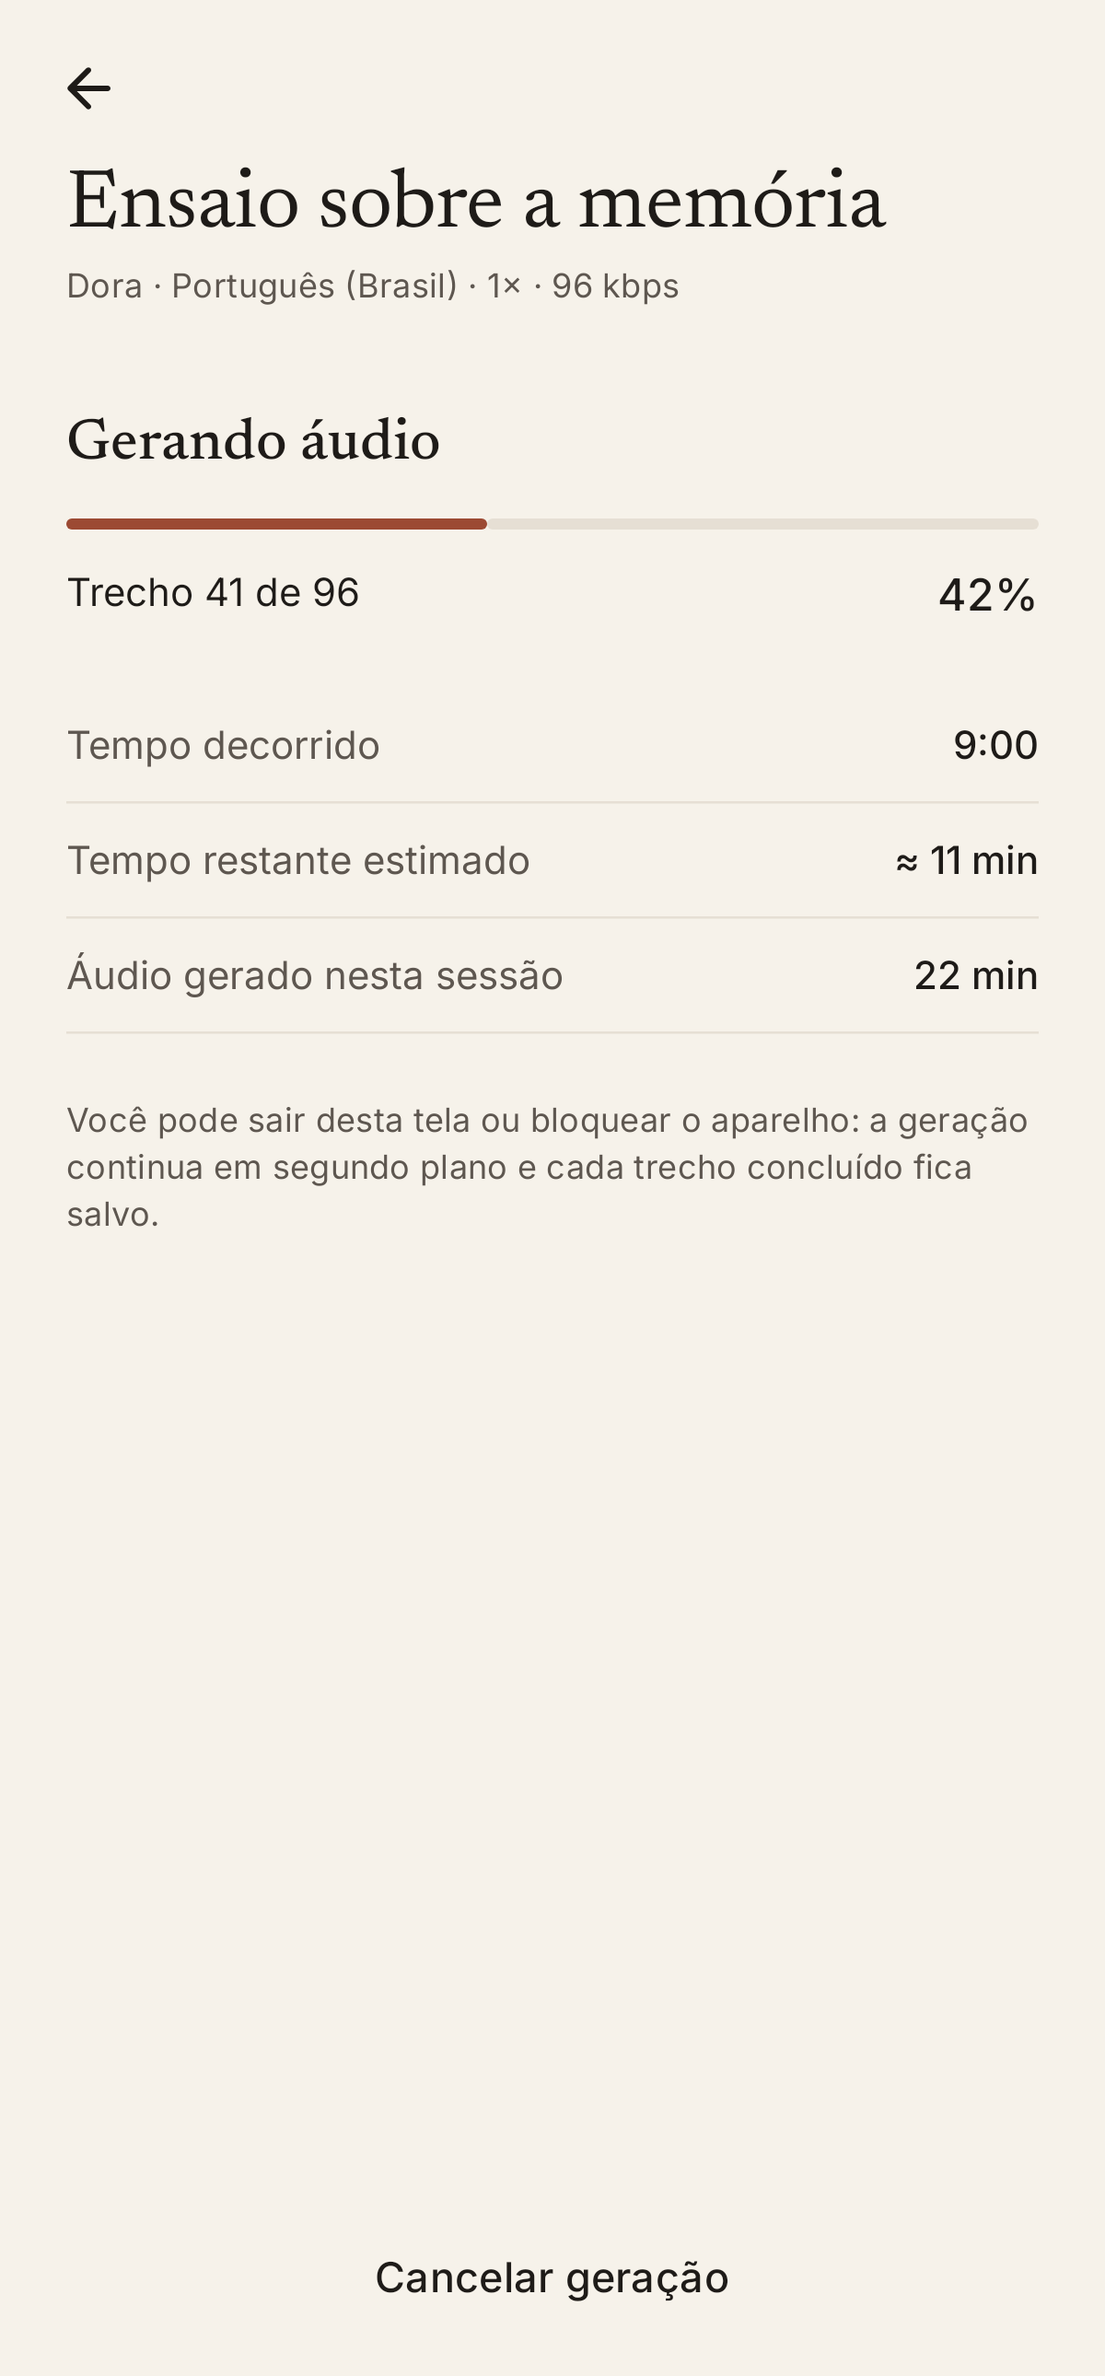
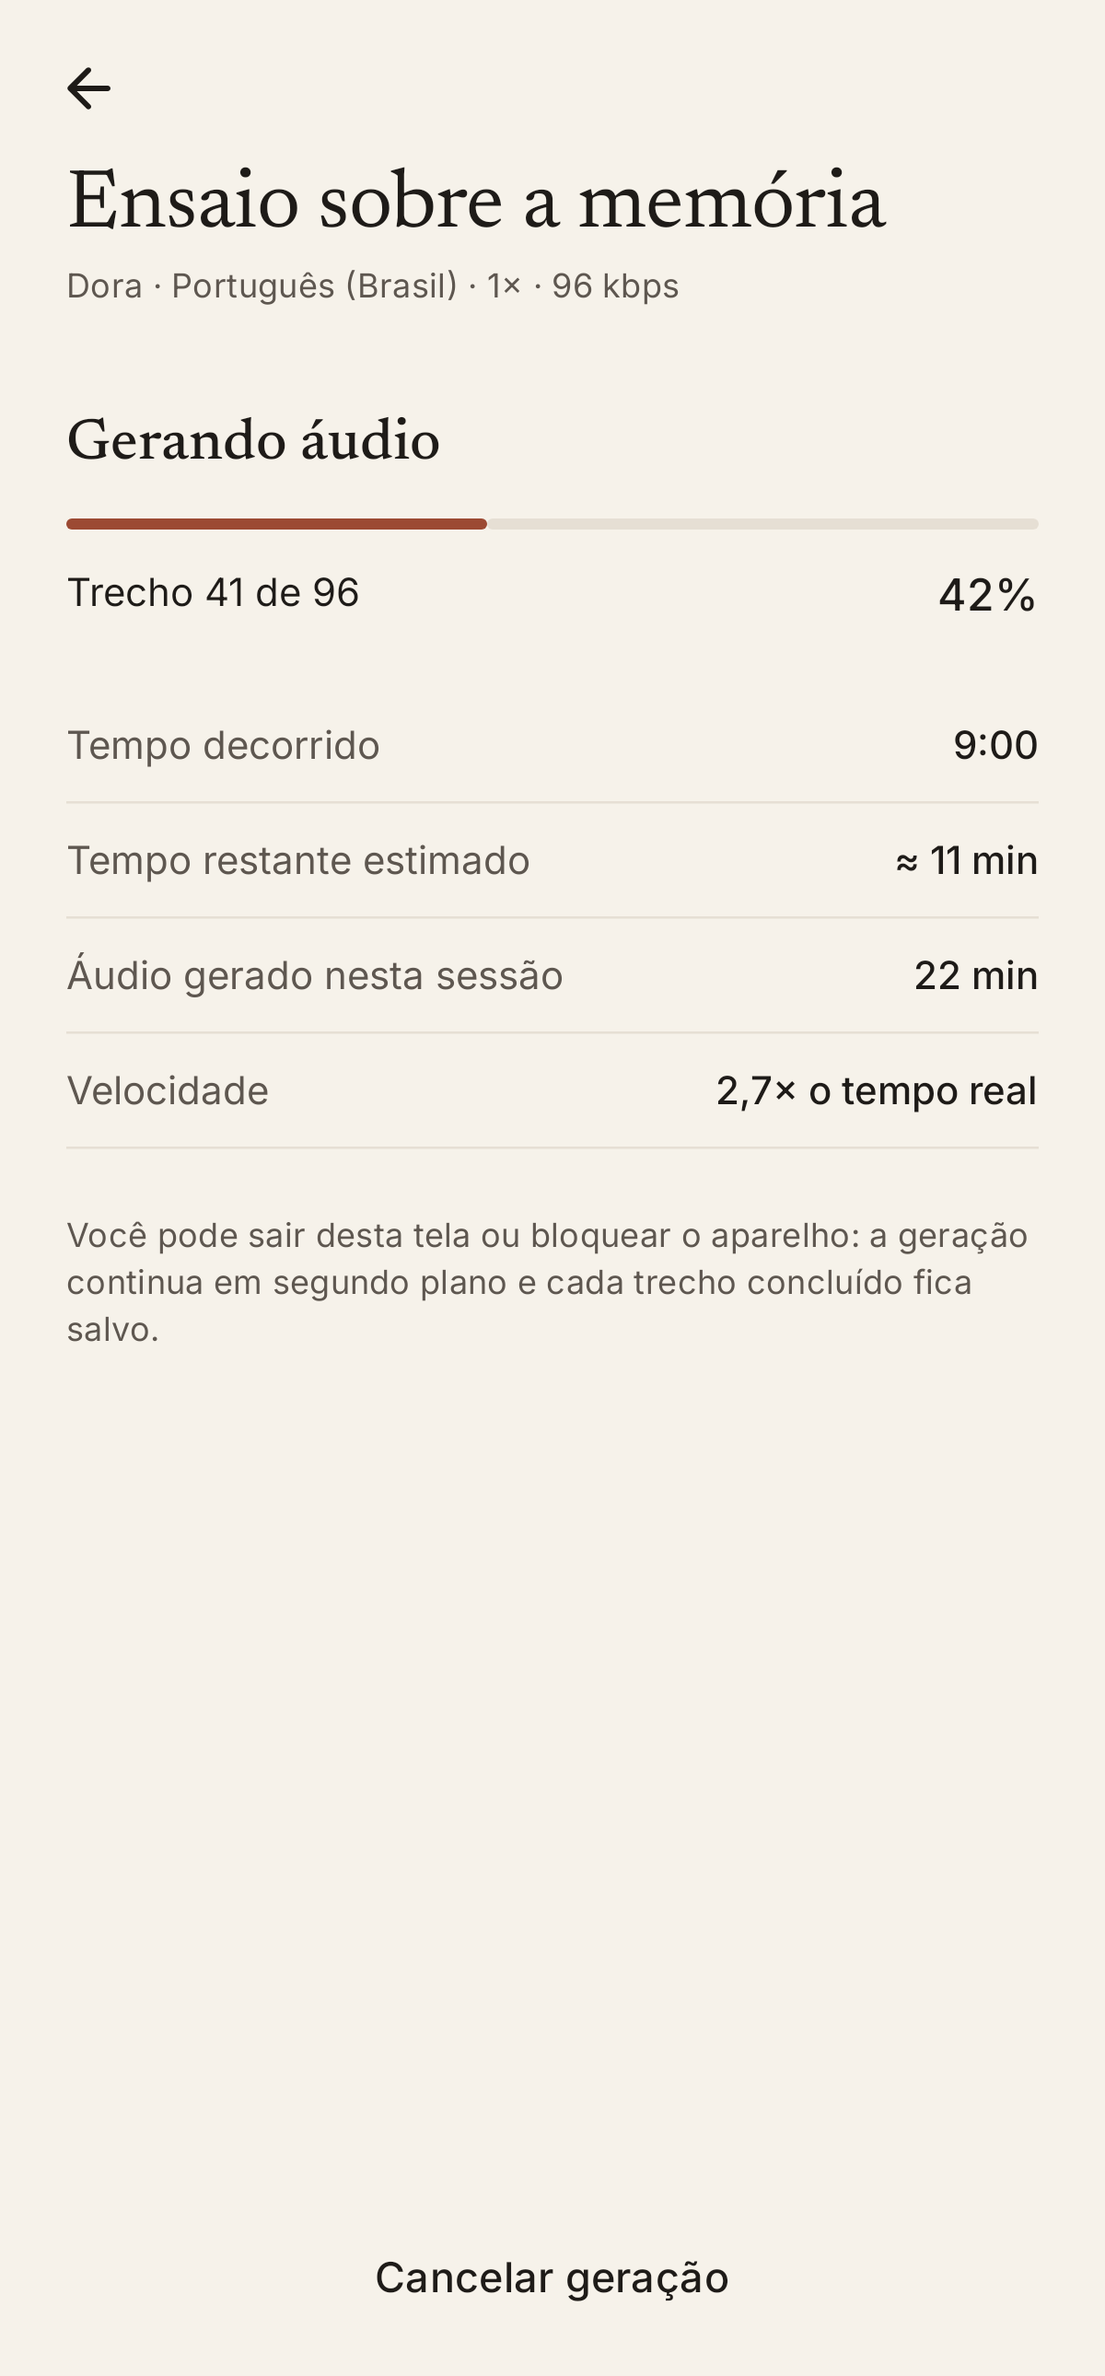
Faster synthesis (adaptive phoneme bucketing) and robust voice previews
- TARGET_BUCKET 64 -> 0 (adaptive): measured ~30% faster synthesis with the real model and
  fewer mid-sentence breaks
- Engine loads directly at the requested speaking rate (no double load)
- Voice preview: WAV cache + MediaPipe-independent MediaPlayer playback instead of a large
  static float AudioTrack; no false 'engine busy' while voices load; loading hint
- Generation screen shows active accelerator (GPU/CPU) and measured speed

Claude-Session: https://claude.ai/code/session_01X9iiWZEaaKdSaTJcaNoUPf

Changed region(s): [[0.0617, 0.4341, 0.925, 0.5581], [0.74, 0.5271, 0.8017, 0.5581], [0.5858, 0.5271, 0.6475, 0.5581]]

diff --git a/app/src/main/java/app/oralis/tts/VoicePreviewPlayer.kt b/app/src/main/java/app/oralis/tts/VoicePreviewPlayer.kt
@@ -1,28 +1,36 @@
 package app.oralis.tts
 
 import android.media.AudioAttributes
-import android.media.AudioFormat
-import android.media.AudioTrack
+import android.media.MediaPlayer
+import android.util.Log
 import java.io.File
-import java.nio.ByteBuffer
-import java.nio.ByteOrder
+import java.io.RandomAccessFile
+import kotlin.math.roundToInt
 import kotlinx.coroutines.CancellationException
 import kotlinx.coroutines.Dispatchers
-import kotlinx.coroutines.delay
 import kotlinx.coroutines.flow.MutableStateFlow
 import kotlinx.coroutines.flow.StateFlow
 import kotlinx.coroutines.flow.asStateFlow
+import kotlinx.coroutines.suspendCancellableCoroutine
 import kotlinx.coroutines.withContext
 
 /**
- * Generates short voice samples locally with Kokoro and plays them with AudioTrack. Samples are
- * cached (float PCM) per voice + rate + text, so listening again is instant.
+ * Generates short voice samples locally with Kokoro and plays them.
+ *
+ * Samples are written once as 16-bit WAV files in the cache (per voice + rate + text) and played
+ * with MediaPlayer: a streaming player with no buffer-size limits, unlike a static AudioTrack
+ * holding the whole float buffer, which some devices refuse for multi-second samples.
  */
-class VoicePreviewPlayer(private val holder: EngineHolder, private val cacheDir: File) {
+class VoicePreviewPlayer(
+    private val holder: EngineHolder,
+    private val cacheDir: File,
+    /** True while a generation owns the engine (it can hold it for a long time). */
+    private val isGenerating: () -> Boolean,
+) {
 
     sealed interface State {
         data object Idle : State
-        data class Preparing(val key: String) : State
+        data class Preparing(val key: String, val loadingModel: Boolean) : State
         data class Playing(val key: String) : State
         data class Error(val key: String, val message: String) : State
     }
@@ -31,99 +39,108 @@ class VoicePreviewPlayer(private val holder: EngineHolder, private val cacheDir:
     val state: StateFlow<State> = _state.asStateFlow()
 
     @Volatile
-    private var track: AudioTrack? = null
+    private var player: MediaPlayer? = null
 
     /** Suspends until playback ends; cancel the calling coroutine to stop. */
     suspend fun play(key: String, text: String, voice: Voice, rate: Float) {
         stop()
-        val cached = loadCached(voice.id, rate, text)
-        if (cached == null && holder.busy) {
-            _state.value = State.Error(key, "O motor de voz está gerando um áudio agora. As amostras voltam a funcionar quando a geração terminar.")
-            return
-        }
+        val file = cacheFile(voice.id, rate, text)
         try {
-            _state.value = State.Preparing(key)
-            val samples = cached ?: holder.use { engine ->
-                engine.synthesize(text, voice.id, voice.locale, rate).samples
-            }.also { store(voice.id, rate, text, it) }
+            if (!file.isFile) {
+                if (isGenerating()) {
+                    _state.value = State.Error(
+                        key, "O motor de voz está gerando um áudio agora. As amostras voltam a funcionar quando a geração terminar.",
+                    )
+                    return
+                }
+                _state.value = State.Preparing(key, loadingModel = holder.state.value !is EngineState.Ready)
+                val samples = holder.use(rate) { engine ->
+                    engine.synthesize(text, voice.id, voice.locale, rate).samples
+                }
+                withContext(Dispatchers.IO) { writeWav(file, samples, KokoroEngine.SAMPLE_RATE) }
+            }
             _state.value = State.Playing(key)
-            playBlocking(samples, KokoroEngine.SAMPLE_RATE)
+            playFile(file)
             _state.value = State.Idle
         } catch (e: CancellationException) {
             stop()
             _state.value = State.Idle
             throw e
         } catch (e: SpeechEngineException) {
+            Log.e(TAG, "Preview synthesis failed", e)
             _state.value = State.Error(key, ErrorMessages.engine(e))
         } catch (e: Exception) {
-            _state.value = State.Error(key, "Não foi possível reproduzir a amostra.")
+            Log.e(TAG, "Preview playback failed", e)
+            file.delete()
+            _state.value = State.Error(key, "Não foi possível reproduzir a amostra (${e.javaClass.simpleName}).")
         }
     }
 
     fun stop() {
-        track?.let { runCatching { it.pause(); it.flush(); it.stop() } }
+        player?.let { p -> runCatching { if (p.isPlaying) p.stop() } }
     }
 
-    private suspend fun playBlocking(samples: FloatArray, rate: Int) = withContext(Dispatchers.IO) {
-        if (samples.isEmpty()) return@withContext
-        val t = AudioTrack.Builder()
-            .setAudioAttributes(
-                AudioAttributes.Builder()
-                    .setUsage(AudioAttributes.USAGE_MEDIA)
-                    .setContentType(AudioAttributes.CONTENT_TYPE_SPEECH)
-                    .build(),
-            )
-            .setAudioFormat(
-                AudioFormat.Builder()
-                    .setEncoding(AudioFormat.ENCODING_PCM_FLOAT)
-                    .setSampleRate(rate)
-                    .setChannelMask(AudioFormat.CHANNEL_OUT_MONO)
-                    .build(),
-            )
-            .setBufferSizeInBytes(samples.size * 4)
-            .setTransferMode(AudioTrack.MODE_STATIC)
-            .build()
-        track = t
+    private suspend fun playFile(file: File) = withContext(Dispatchers.Main) {
+        val mp = MediaPlayer()
+        player = mp
         try {
-            if (t.state != AudioTrack.STATE_INITIALIZED) throw IllegalStateException("AudioTrack not initialized")
-            t.write(samples, 0, samples.size, AudioTrack.WRITE_BLOCKING)
-            t.play()
-            val durationMs = samples.size * 1000L / rate
-            var waited = 0L
-            while (waited < durationMs + 150 && t.playState == AudioTrack.PLAYSTATE_PLAYING) {
-                delay(50)
-                waited += 50
+            suspendCancellableCoroutine { cont ->
+                mp.setAudioAttributes(
+                    AudioAttributes.Builder()
+                        .setUsage(AudioAttributes.USAGE_MEDIA)
+                        .setContentType(AudioAttributes.CONTENT_TYPE_SPEECH)
+                        .build(),
+                )
+                mp.setDataSource(file.absolutePath)
+                mp.setOnCompletionListener { if (cont.isActive) cont.resumeWith(Result.success(Unit)) }
+                mp.setOnErrorListener { _, what, extra ->
+                    if (cont.isActive) cont.resumeWith(Result.failure(IllegalStateException("MediaPlayer error $what/$extra")))
+                    true
+                }
+                mp.setOnPreparedListener { it.start() }
+                mp.prepareAsync()
+                cont.invokeOnCancellation { runCatching { mp.stop() } }
             }
         } finally {
-            track = null
-            runCatching { t.stop() }
-            t.release()
+            player = null
+            mp.release()
         }
     }
 
     private fun cacheFile(voiceId: String, rate: Float, text: String): File {
         val h = text.hashCode().toUInt().toString(16)
-        return File(cacheDir, "preview_${voiceId}_${(rate * 100).toInt()}_$h.f32")
-    }
-
-    private fun loadCached(voiceId: String, rate: Float, text: String): FloatArray? {
-        val f = cacheFile(voiceId, rate, text)
-        if (!f.isFile) return null
-        val bytes = f.readBytes()
-        val fb = ByteBuffer.wrap(bytes).order(ByteOrder.LITTLE_ENDIAN).asFloatBuffer()
-        return FloatArray(fb.remaining()).also { fb.get(it) }
-    }
-
-    private fun store(voiceId: String, rate: Float, text: String, samples: FloatArray) {
-        runCatching {
-            cacheDir.mkdirs()
-            val bb = ByteBuffer.allocate(samples.size * 4).order(ByteOrder.LITTLE_ENDIAN)
-            bb.asFloatBuffer().put(samples)
-            cacheFile(voiceId, rate, text).writeBytes(bb.array())
-        }
+        return File(cacheDir, "preview_${voiceId}_${(rate * 100).roundToInt()}_$h.wav")
     }
 
     companion object {
+        private const val TAG = "OralisPreview"
+
+        /** Writes mono 16-bit PCM WAV atomically. */
+        fun writeWav(target: File, samples: FloatArray, sampleRate: Int) {
+            target.parentFile?.mkdirs()
+            val tmp = File(target.parentFile, target.name + ".tmp")
+            val dataBytes = samples.size * 2
+            RandomAccessFile(tmp, "rw").use { raf ->
+                raf.setLength(0)
+                val header = java.nio.ByteBuffer.allocate(44).order(java.nio.ByteOrder.LITTLE_ENDIAN)
+                header.put("RIFF".toByteArray()).putInt(36 + dataBytes).put("WAVE".toByteArray())
+                header.put("fmt ".toByteArray()).putInt(16).putShort(1).putShort(1)
+                header.putInt(sampleRate).putInt(sampleRate * 2).putShort(2).putShort(16)
+                header.put("data".toByteArray()).putInt(dataBytes)
+                raf.write(header.array())
+                val buf = java.nio.ByteBuffer.allocate(8192 * 2).order(java.nio.ByteOrder.LITTLE_ENDIAN)
+                var i = 0
+                while (i < samples.size) {
+                    buf.clear()
+                    val n = minOf(8192, samples.size - i)
+                    for (k in 0 until n) buf.putShort((samples[i + k] * 32767f).roundToInt().coerceIn(-32768, 32767).toShort())
+                    raf.write(buf.array(), 0, n * 2)
+                    i += n
+                }
+            }
+            if (!tmp.renameTo(target)) throw java.io.IOException("Cannot write preview")
+        }
+
         fun sampleText(locale: String): String = when {
             locale.startsWith("pt") -> "Olá. Esta é a minha voz no Oralis. Posso ler aulas, ensaios e histórias para você, com calma e clareza."
             locale.startsWith("en") -> "Hello. This is my voice in Oralis. I can read lessons, essays and stories for you, calmly and clearly."

diff --git a/app/src/main/java/app/oralis/ui/generation/GenerationScreen.kt b/app/src/main/java/app/oralis/ui/generation/GenerationScreen.kt
@@ -57,6 +57,7 @@ fun GenerationScreen(container: AppContainer, nav: NavController, audioId: Strin
     val audio by audioFlow.collectAsStateWithLifecycle(null)
     val liveAll by container.generationRepository.live.collectAsStateWithLifecycle()
     val live = liveAll?.takeIf { it.audioId == audioId }
+    val engine by container.engineHolder.state.collectAsStateWithLifecycle()
     val scope = rememberCoroutineScope()
     var confirmCancel by remember { mutableStateOf(false) }
     var now by remember { mutableLongStateOf(System.currentTimeMillis()) }
@@ -99,6 +100,14 @@ fun GenerationScreen(container: AppContainer, nav: NavController, audioId: Strin
                 Stat("Tempo decorrido", a.generationStartedAt?.let { formatClock(now - it) } ?: "—")
                 eta(live)?.let { Stat("Tempo restante estimado", "≈ ${formatDuration(it)}") }
                 if (live.audioMsSynthesized > 0) Stat("Áudio gerado nesta sessão", formatDuration(live.audioMsSynthesized))
+                live.synthStartedAtElapsed?.let { start ->
+                    val wall = SystemClock.elapsedRealtime() - start
+                    if (live.audioMsSynthesized > 0 && wall > 5_000) {
+                        val speed = live.audioMsSynthesized.toDouble() / wall
+                        Stat("Velocidade", "%.1f× o tempo real".format(app.oralis.ui.components.PtBr, speed))
+                    }
+                }
+                (engine as? app.oralis.tts.EngineState.Ready)?.let { Stat("Acelerador", if (it.delegate == "GPU") "GPU" else "CPU") }
                 if (live.thermalPause) {
                     VSpace(12)
                     Text(

diff --git a/app/src/main/java/app/oralis/tts/EngineHolder.kt b/app/src/main/java/app/oralis/tts/EngineHolder.kt
@@ -82,11 +82,11 @@ class EngineHolder(
     }
 
     /** Runs [block] with exclusive access to a loaded engine. */
-    suspend fun <T> use(block: suspend (KokoroEngine) -> T): T = mutex.withLock {
+    suspend fun <T> use(rate: Float = 1f, block: suspend (KokoroEngine) -> T): T = mutex.withLock {
         idleJob?.cancel()
         busy = true
         try {
-            val e = obtainLocked()
+            val e = obtainLocked(rate)
             block(e)
         } finally {
             busy = false
@@ -99,7 +99,7 @@ class EngineHolder(
 
     suspend fun release() = mutex.withLock { releaseLocked() }
 
-    private suspend fun obtainLocked(): KokoroEngine {
+    private suspend fun obtainLocked(rate: Float): KokoroEngine {
         val installed = models.state.first { it !is ModelState.Checking && it !is ModelState.Verifying }
         if (installed !is ModelState.Installed) {
             throw SpeechEngineException(SpeechEngineException.Kind.MODEL_MISSING, "Model not installed")
@@ -117,7 +117,7 @@ class EngineHolder(
             cacheDir = File(context.cacheDir, "litert").apply { mkdirs() },
         )
         try {
-            e.load(1f)
+            e.load(rate) // load directly at the requested rate (rate is engine-level)
             val v = e.voices()
             if (v.isEmpty()) throw SpeechEngineException(SpeechEngineException.Kind.MODEL_INCOMPATIBLE, "Model reported no voices")
             _voices.value = v

diff --git a/app/src/test/java/app/oralis/tts/PreviewWavTest.kt b/app/src/test/java/app/oralis/tts/PreviewWavTest.kt
@@ -1,0 +1,25 @@
+package app.oralis.tts
+
+import java.io.File
+import java.nio.ByteBuffer
+import java.nio.ByteOrder
+import kotlin.math.sin
+import org.junit.Assert.assertEquals
+import org.junit.Test
+
+class PreviewWavTest {
+    @Test
+    fun writesValidMono16BitWav() {
+        val samples = FloatArray(24_000 * 3) { (sin(it * 0.05) * 0.5).toFloat() }
+        val f = File(System.getProperty("oralis.testOutputDir") ?: "build/test-output", "preview.wav").apply { parentFile.mkdirs() }
+        VoicePreviewPlayer.writeWav(f, samples, 24_000)
+        val b = ByteBuffer.wrap(f.readBytes()).order(ByteOrder.LITTLE_ENDIAN)
+        assertEquals("RIFF", String(f.readBytes(), 0, 4))
+        assertEquals(f.length() - 8, b.getInt(4).toLong())
+        assertEquals(1, b.getShort(22).toInt())        // mono
+        assertEquals(24_000, b.getInt(24))             // sample rate
+        assertEquals(16, b.getShort(34).toInt())       // bits
+        assertEquals(samples.size * 2, b.getInt(40))   // data size
+        assertEquals(44L + samples.size * 2, f.length())
+    }
+}

diff --git a/app/src/main/java/app/oralis/ui/create/CreateScreen.kt b/app/src/main/java/app/oralis/ui/create/CreateScreen.kt
@@ -242,6 +242,12 @@ fun CreateScreen(container: AppContainer, nav: NavController, sharedText: String
             (preview as? VoicePreviewPlayer.State.Error)?.let {
                 Text(it.message, style = MaterialTheme.typography.bodySmall, color = MaterialTheme.colorScheme.error)
             }
+            (preview as? VoicePreviewPlayer.State.Preparing)?.takeIf { it.loadingModel }?.let {
+                Text(
+                    "Carregando o modelo de voz… a primeira amostra leva alguns segundos; as seguintes são imediatas.",
+                    style = MaterialTheme.typography.bodySmall, color = MaterialTheme.colorScheme.onSurfaceVariant,
+                )
+            }
 
             // ---- Preset ----
             SectionLabel("Estilo de leitura")

diff --git a/app/src/main/java/app/oralis/OralisApp.kt b/app/src/main/java/app/oralis/OralisApp.kt
@@ -26,8 +26,8 @@ class AppContainer(app: Application) {
     val settings = SettingsRepository(app)
     val modelRepository = ModelRepository(app, scope)
     val engineHolder = EngineHolder(app, modelRepository, settings, scope)
-    val previewPlayer = VoicePreviewPlayer(engineHolder, File(app.cacheDir, "previews"))
     val generationRepository = GenerationRepository(app, database.audioDao())
+    val previewPlayer = VoicePreviewPlayer(engineHolder, File(app.cacheDir, "previews")) { generationRepository.live.value != null }
     val sleepTimer = SleepTimer()
     val playerConnection = PlayerConnection(app, database.audioDao(), settings, scope)
     val exportManager = ExportManager(app, database.audioDao())

diff --git a/app/src/main/java/app/oralis/tts/KokoroEngine.kt b/app/src/main/java/app/oralis/tts/KokoroEngine.kt
@@ -145,7 +145,12 @@ class KokoroEngine(
     companion object {
         private const val TAG = "OralisKokoro"
         const val SAMPLE_RATE = 24_000
-        /** Same value as Google's official MediaPipe TTS sample. */
-        const val TARGET_BUCKET = 64
+        /**
+         * Phoneme bucket length per acoustic-model inference; 0 = adaptive (runtime default).
+         * Measured with the real model (same text/voice): 0 → 98.6 s for 204 s of audio;
+         * 64 (value used by Google's sample) → 139.9 s for 212 s, i.e. ~30% slower and with extra
+         * mid-sentence breaks; 32 → 2.4× slower.
+         */
+        const val TARGET_BUCKET = 0
     }
 }

diff --git a/app/src/main/java/app/oralis/generation/GenerationWorker.kt b/app/src/main/java/app/oralis/generation/GenerationWorker.kt
@@ -68,7 +68,7 @@ class GenerationWorker(context: Context, params: WorkerParameters) : CoroutineWo
             notify(entity.title, GenerationPhase.LOADING_MODEL, 0, 0, 0f, force = true)
             repo.publish { it?.copy(phase = GenerationPhase.LOADING_MODEL) }
 
-            val result = container.engineHolder.use { engine ->
+            val result = container.engineHolder.use(spec.speakingRate) { engine ->
                 GenerationPipeline(engine).run(
                     spec = spec,
                     text = text,
